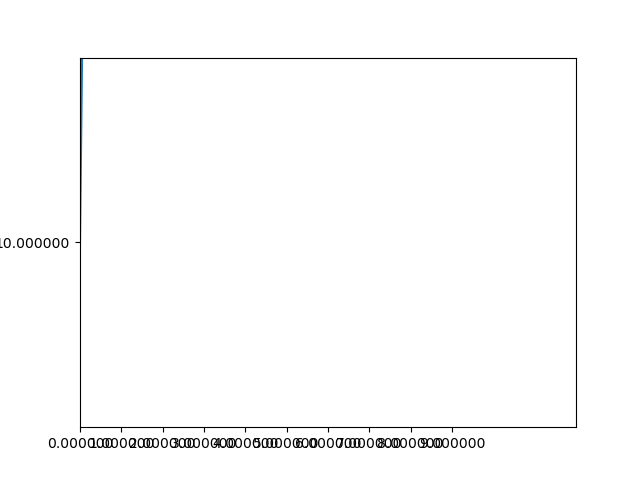
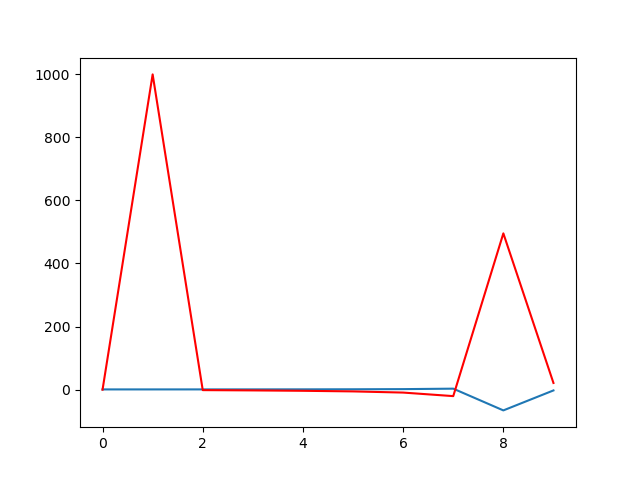
working DFT now, improved plotting

diff --git a/main.c b/main.c
@@ -1,6 +1,5 @@
 #include <math.h>
 #include <stdio.h>
-// #include "omp.h"
 
 typedef struct {
     double real;
@@ -9,7 +8,7 @@ typedef struct {
 
 #define PI 3.14159265
 
-void DFT(complex *x, complex *X, int N, int K) {
+void DFT(complex *x, complex *X, int N, int K, int RANGE) {
     // the outer loop is the number of resulting frequencies we want
     for (int k = 0; k < K; k++) {
         X[k].real = 0.0;
@@ -19,7 +18,7 @@ void DFT(complex *x, complex *X, int N, int K) {
             // use euler's formula to calculate exp(ix) = cos(x) + isin(x)
             // X[k].real += x[n].real * cos(angle);
             // X[k].imag -= x[n].imag * sin(angle);
-            double angle = 2 * PI * k * n / N;
+            double angle = 2 * PI * k * n  / N;
             double cos_angle = cos(angle);
             double sin_angle = sin(angle);
             X[k].real += x[n].real * cos_angle - x[n].imag * sin_angle;
@@ -28,8 +27,6 @@ void DFT(complex *x, complex *X, int N, int K) {
     }
 }
 
-void FFT(complex *x, complex *X, int N) { 
-}
 
 void iDFT(complex *X, complex *y, int N) {
     // computing the inverse DFT
@@ -59,10 +56,22 @@ void print_desmos(complex *X, int N) {
 }
 
 double test_func(double x) {
-    // return 5 * cos(2*x / 5 + 2) + 3 * sin(2 *x);
-    // return cos(PI * x) + cos(PI * 2 * x);
     // the period is 2pi/b, the frequency is b/2pi
-    return cos(10 * 2 * PI * x);
+    return cos(10 * 2 * PI * x) + 2 * cos(20 * 2 * PI * x) + 3 * cos(30 * 2 * PI * x) + 4 * cos(40 * 2 * PI * x) + sin(40 * x);  // frequency of 10
+}
+
+double test_func2(double x) { 
+    int w = PI * 2 * 10;
+    int total = 0.0; 
+    for (int i = 1; i < 5; i ++) { 
+        total += i*cos(w * x * i);
+    } 
+    return total;
+} 
+
+double test_func3(double x) { 
+    double w = PI * 2;
+    return 2 * sin(w*x) + sin(w*50*x);
 }
 
 void write_frequencies(complex *X, int K) {
@@ -74,50 +83,47 @@ void write_frequencies(complex *X, int K) {
     }
 }
 
+void write_frequencies_csv(complex *X, int K) {
+    // write to data.csv
+    FILE *f = fopen("data.csv", "w");
+    // write columns, index, real, imag
+    fprintf(f, "index,real,imag\n");
+    for (int k = 0; k < K; k++) {
+        // the indices are i * range / N
+        fprintf(f, "%d,%f,%f\n", k, X[k].real, X[k].imag);
+    }
+    
+}
+
+#define  K 10 
+#define  N  1000
+#define  RANGE  100
+
 int main() {
-    int K = 30;
-    int N = 100;
-    int range = 100;
     complex X[K];
     complex x[N];
+    
+    // malloc for dynamic size
+    //complex *X = (complex *)malloc(K * sizeof(complex));
+    //complex *x = (complex *)malloc(N * sizeof(complex));
 
+    // gathering samples
     for (int i = 0; i < N; i++) {
         //double index = (double)i / N * range;
         // double index = (double)i;
-        x[i].real = test_func(i);
+        x[i].real = test_func3((double)i/N);
         x[i].imag = 0.0;
     }
 
     // x -> X -> y
-    DFT(x, X, N, K);
+    DFT(x, X, N, K, RANGE);
+
+    write_frequencies_csv(X, K);
+
+    // complex y[N];
     // iDFT(X, y, N);
+    // print_desmos(y, N);
 
-    write_frequencies(X, K);
 
-    // for (int i = 0; i < N; i++) {
-    //     printf("original[%d]  = %.5f + %.5fi\n", i, x[i].real, x[i].imag);
-    // }
-
-    // for (int i = 0; i < N; i++) {
-    //     printf("at frequency:[%d], real amplitude:   = %.5f + %.5fi\n", i,
-    //     X[i].real, X[i].imag);
-    // }
-
-    /* desmos printing
-       printf("printing desmos version\n");
-       double period;
-       for (int i = 0; i < N; i++) {
-       period = 2 * PI / i;
-       printf("+ %.5f * cos(%.5fx)", X[i].real, period);
-       }
-       */
-
-    // reconstruction
-    // for (int i = 0; i < N; i++) {
-    //     printf("reconstructed sample[%d]  = %.5f + %.5fi\n", i, y[i].real,
-    //     y[i].imag);
-    // }
-
-    // print_desmos(X, N);
     return 0;
 }

diff --git a/plot.py b/plot.py
@@ -1,22 +1,27 @@
 import matplotlib.pyplot as plt
-import matplotlib
-matplotlib.use('Agg')
+import pandas as pd
+# import matplotlib
+# matplotlib.use('Agg')
 # open data.txt and plot the real values
-with open('data.txt') as f:
-    data = f.read()
-    data = data.split('\n')
-    x = []
-    y = []
-    for row in data: 
-        r = row.split(' ')
-        if len(r) >=  2:
-            x.append(r[0])
-            y.append(r[1])
-    plt.plot(x, y)
-    # remove the x and y axes
-    m = max(y)
-    plt.axis((0, 12, 0, m))
-    # set y limit to 0, 1
+with open('data.csv') as f:
+    # data = f.read()
+    # data = data.split('\n')
+    data = pd.read_csv('data.csv') 
+    i = []
+    real = []
+    imag = []
+    # get the first column of data and plot it
+    # load the csv and plot column 1 on the x axis, column 2 on the y axis
+    for index, row in data.iterrows():
+        i.append(row['index'])
+        real.append(row['real'])
+        imag.append(row['imag'])
+
+    
+    plt.plot(i, real)
+    # add a different colored line for the imaginary part
+    plt.plot(i, imag, 'r')
+
     # because it cannot show the plot, save it to a file
     plt.savefig('plot.png')
 
